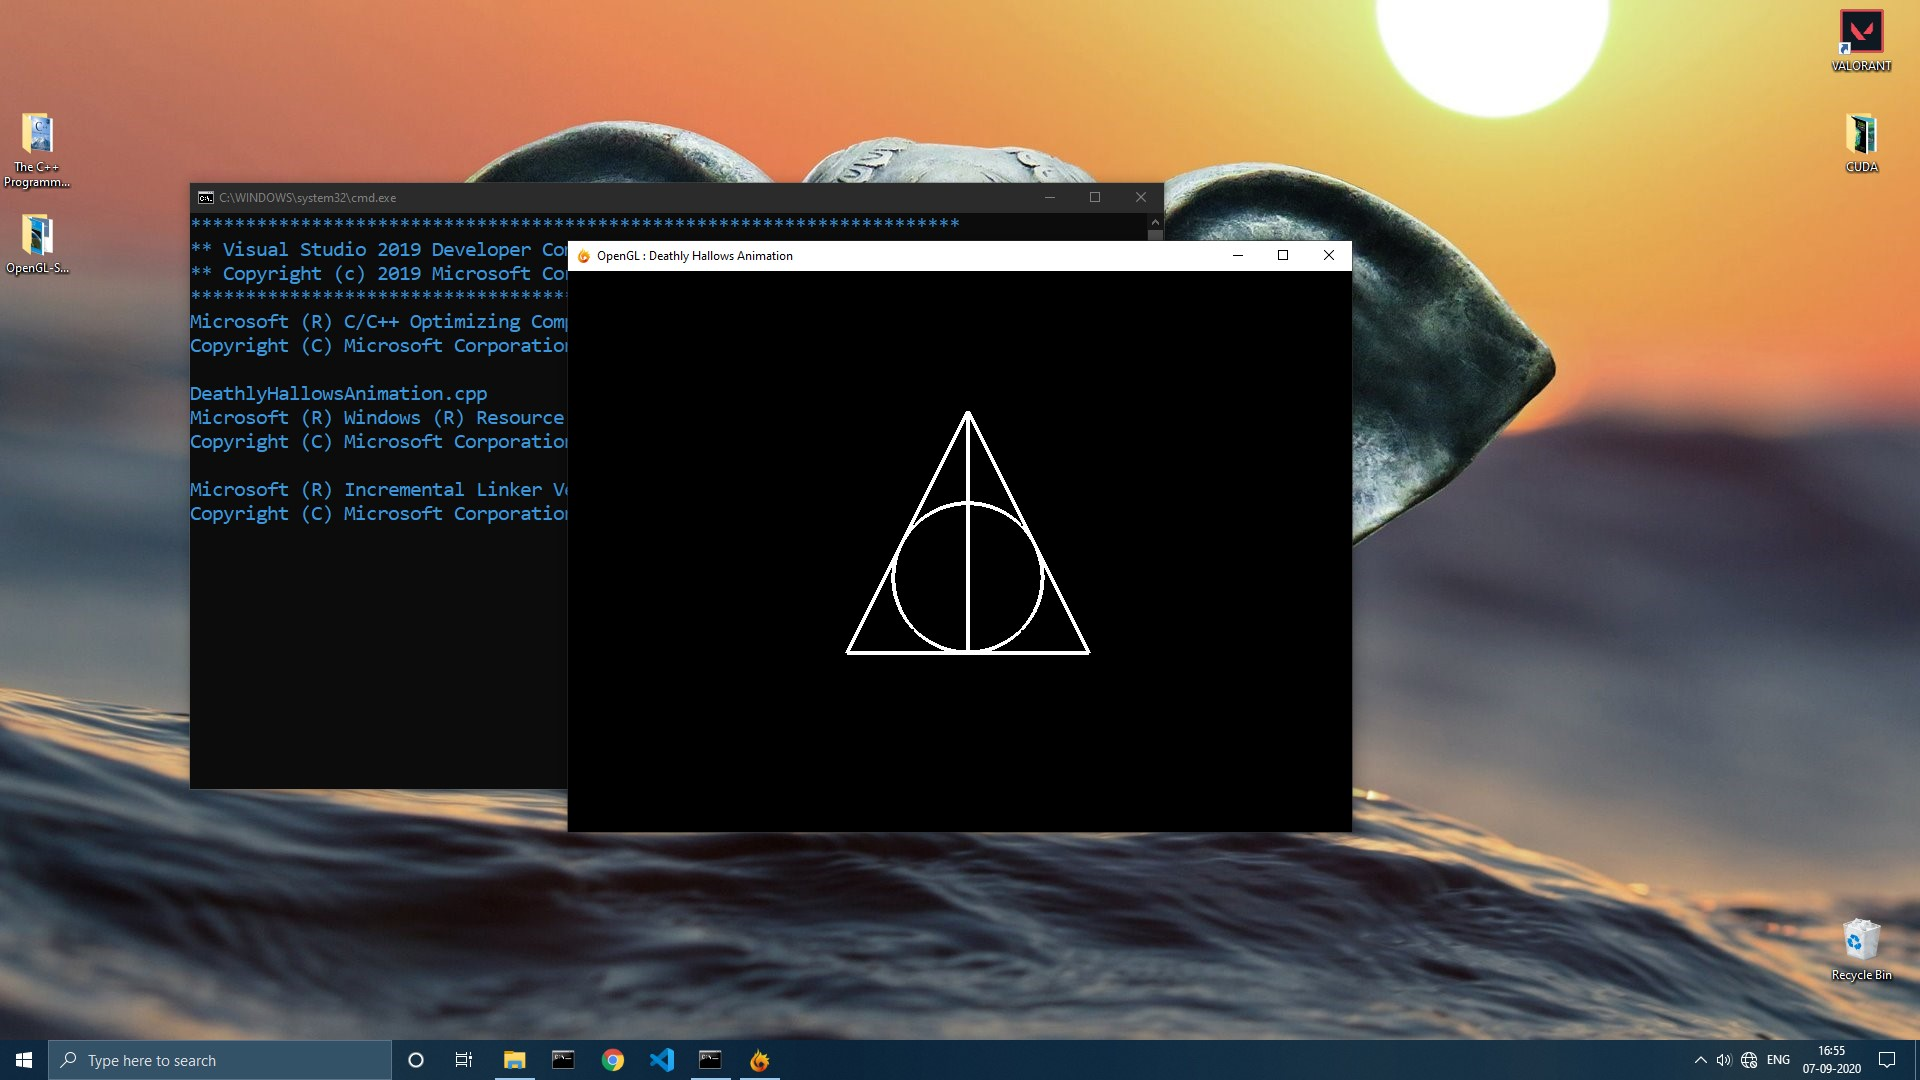
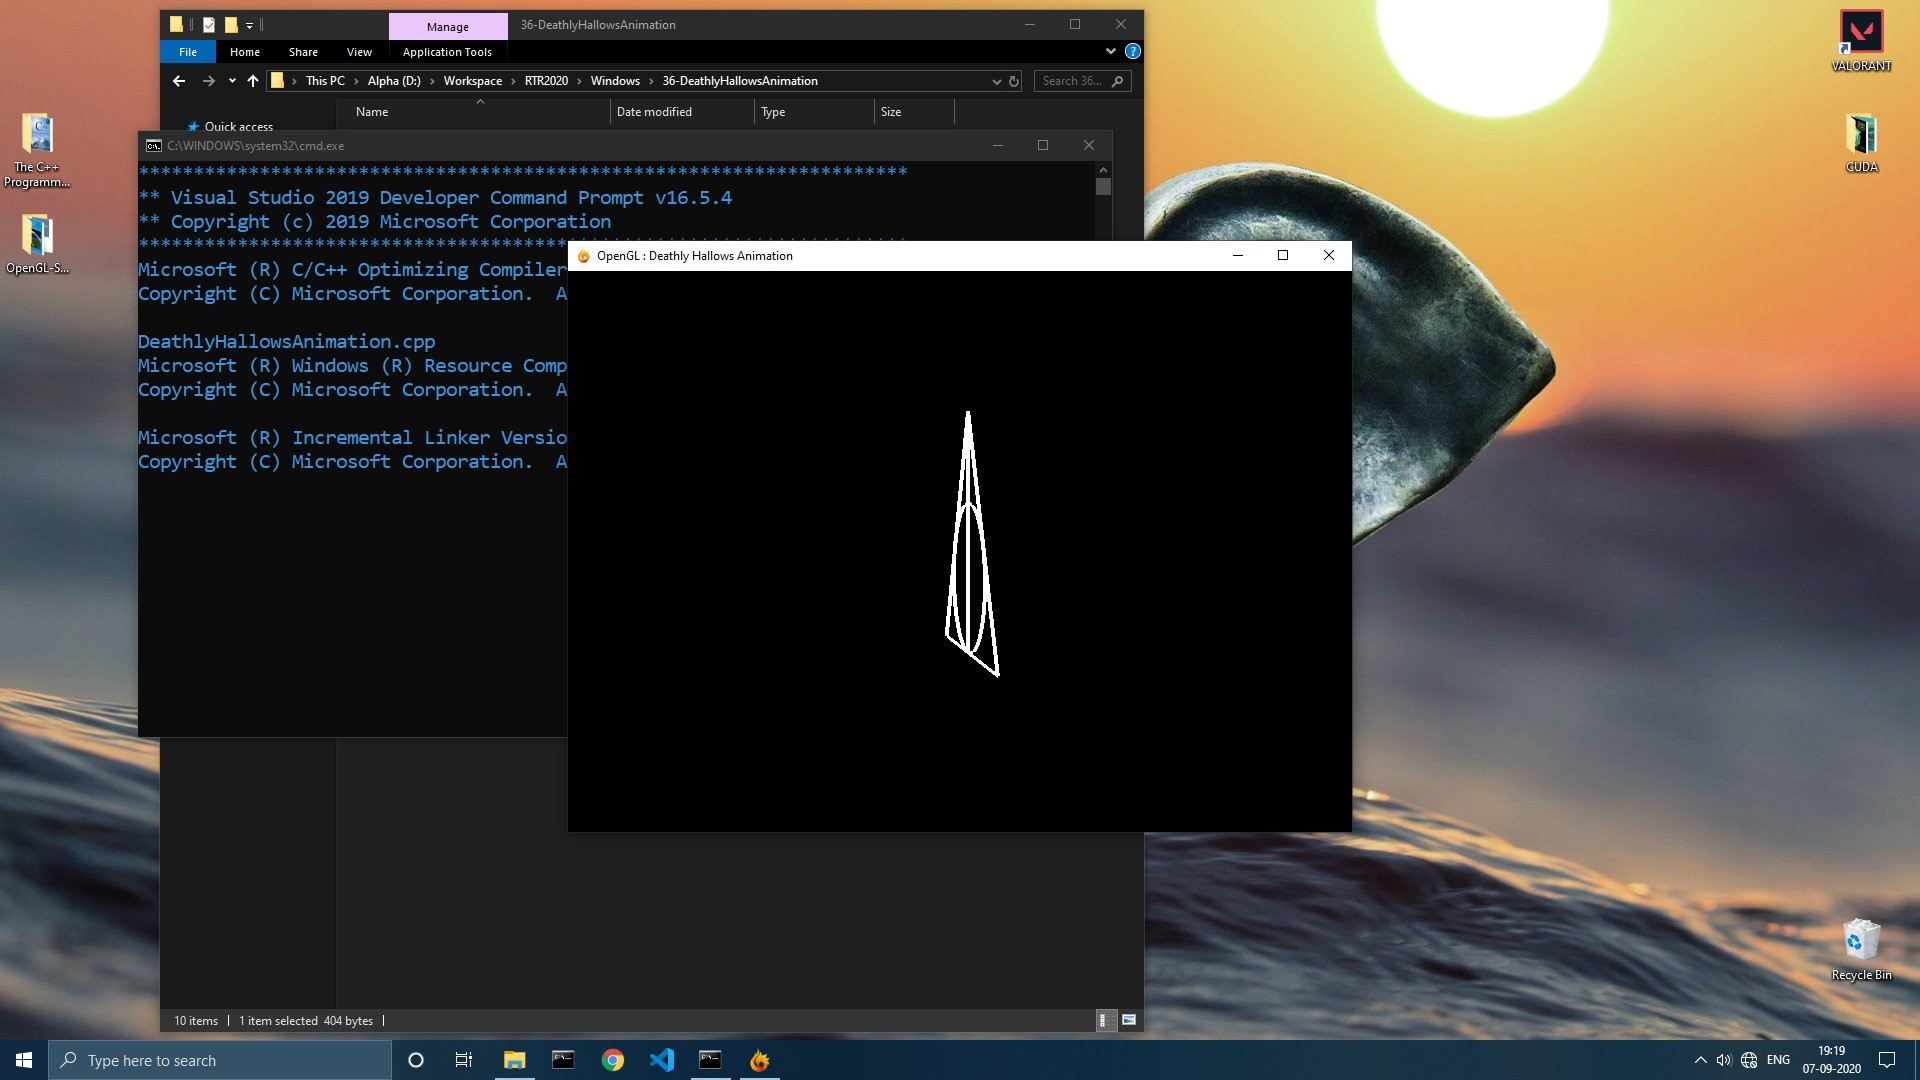
adding rotation

diff --git a/Windows/36-DeathlyHallowsAnimation/DeathlyHallowsAnimation.cpp b/Windows/36-DeathlyHallowsAnimation/DeathlyHallowsAnimation.cpp
@@ -327,7 +327,7 @@ void Display(void)
 {
     //variable declaration
     float x, y, fAngle, radius;
-    float step = 0.0005f;
+    float step = 0.0004f;
    
     static GLfloat Tcx = -5.0f; 
     static GLfloat Tcy = -5.0f;
@@ -336,6 +336,9 @@ void Display(void)
 
     static GLfloat Tsx = 5.0f;
     static GLfloat Tsy = -5.0f;
+
+    static GLfloat cRot = 0.0f;
+    static GLfloat sRot = 0.0f;
 
     bool cloak = true;
     bool wand = false;
@@ -353,6 +356,7 @@ void Display(void)
     if(cloak)
     {
         glTranslatef(Tcx, Tcy, -3.0f);
+        glRotatef(cRot, 0.0f, 1.0f, 0.0f);
         glScalef(0.5f, 0.5f, 0.5f);
         glBegin(GL_LINE_LOOP);
             glVertex3f(0.0f, 1.0f, 0.0f);
@@ -372,6 +376,7 @@ void Display(void)
     {
         //trnslate to center of incircle
         glTranslatef(Tsx, Tsy - 0.19f, -3.0f);
+        glRotatef(sRot, 0.0f, 1.0f, 0.0f);
         glScalef(0.5f, 0.5f, 0.5f);
         
         //radius of incircle = area / semi-perimeter;
@@ -430,6 +435,14 @@ void Display(void)
         if(Tsy < 0.0f)
             Tsy = Tsy + step;  
     }
+
+    cRot = cRot + 0.1f;
+    if(cRot >= 360.0f)
+        cRot = 0.0f;
+
+    sRot = sRot + 0.1f;
+    if(sRot >= 360.0f)
+        sRot = 0.0f;
 
     SwapBuffers(ghdc);
 }
